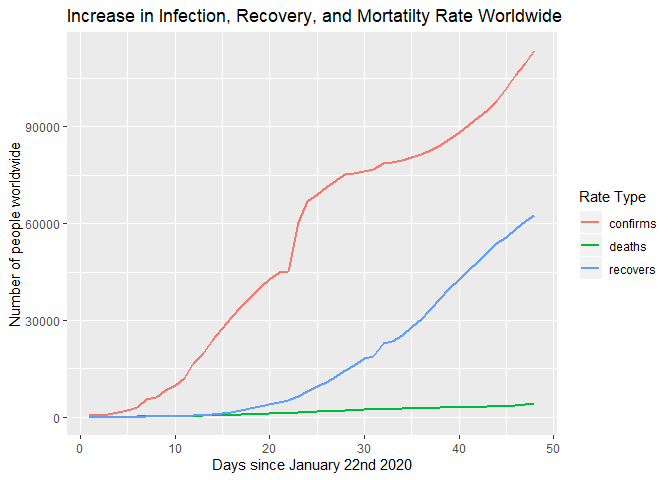
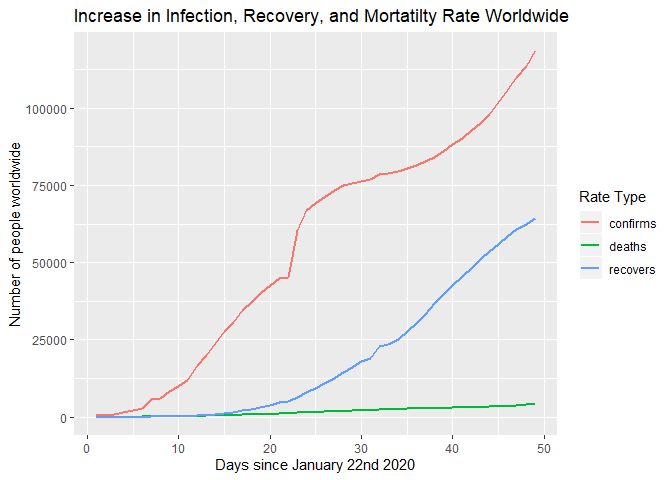
Updated README

diff --git a/README.md b/README.md
@@ -1,21 +1,21 @@
 COVID-19 Infection,Recovery, and Mortality Rates
 ================
 
-    ## [1] "As of:  Tue Mar 10 00:28:40 2020"
+    ## [1] "As of:  Wed Mar 11 01:22:21 2020"
 
-    ## [1] "Worldwide = 113582 cases"
+    ## [1] "Worldwide = 118582 cases-------One Week Ago = 92844"
 
-    ## [1] "China = 80735 cases"
+    ## [1] "China = 80757 cases-------One Week Ago = 80151"
 
-    ## [1] "Italy = 9172 cases"
+    ## [1] "Italy = 10149 cases-------One Week Ago = 2502"
 
-    ## [1] "US = 605 cases"
+    ## [1] "US = 959 cases-------One Week Ago = 122"
 
 *Plots:*
 ![](README_files/figure-gfm/unnamed-chunk-5-1.png)<!-- -->![](README_files/figure-gfm/unnamed-chunk-5-2.png)<!-- -->![](README_files/figure-gfm/unnamed-chunk-5-3.png)<!-- -->![](README_files/figure-gfm/unnamed-chunk-5-4.png)<!-- -->![](README_files/figure-gfm/unnamed-chunk-5-5.png)<!-- -->![](README_files/figure-gfm/unnamed-chunk-5-6.png)<!-- -->![](README_files/figure-gfm/unnamed-chunk-5-7.png)<!-- -->
 \_\_\_\_ *US Rates:*
 
-    ## [1] "The average rate of growth in the US since 1-22-2020 is a 0.178085239582838 percent increase in confirmed cases daily"
+    ## [1] "The average rate of growth in the US since 1-22-2020 is a 0.18656521306949 percent increase in confirmed cases daily"
 
 *If it is increasing by 0% then this means there were no new cases in
 that day. In terms of exponential growth as this constant goes from \> 0
